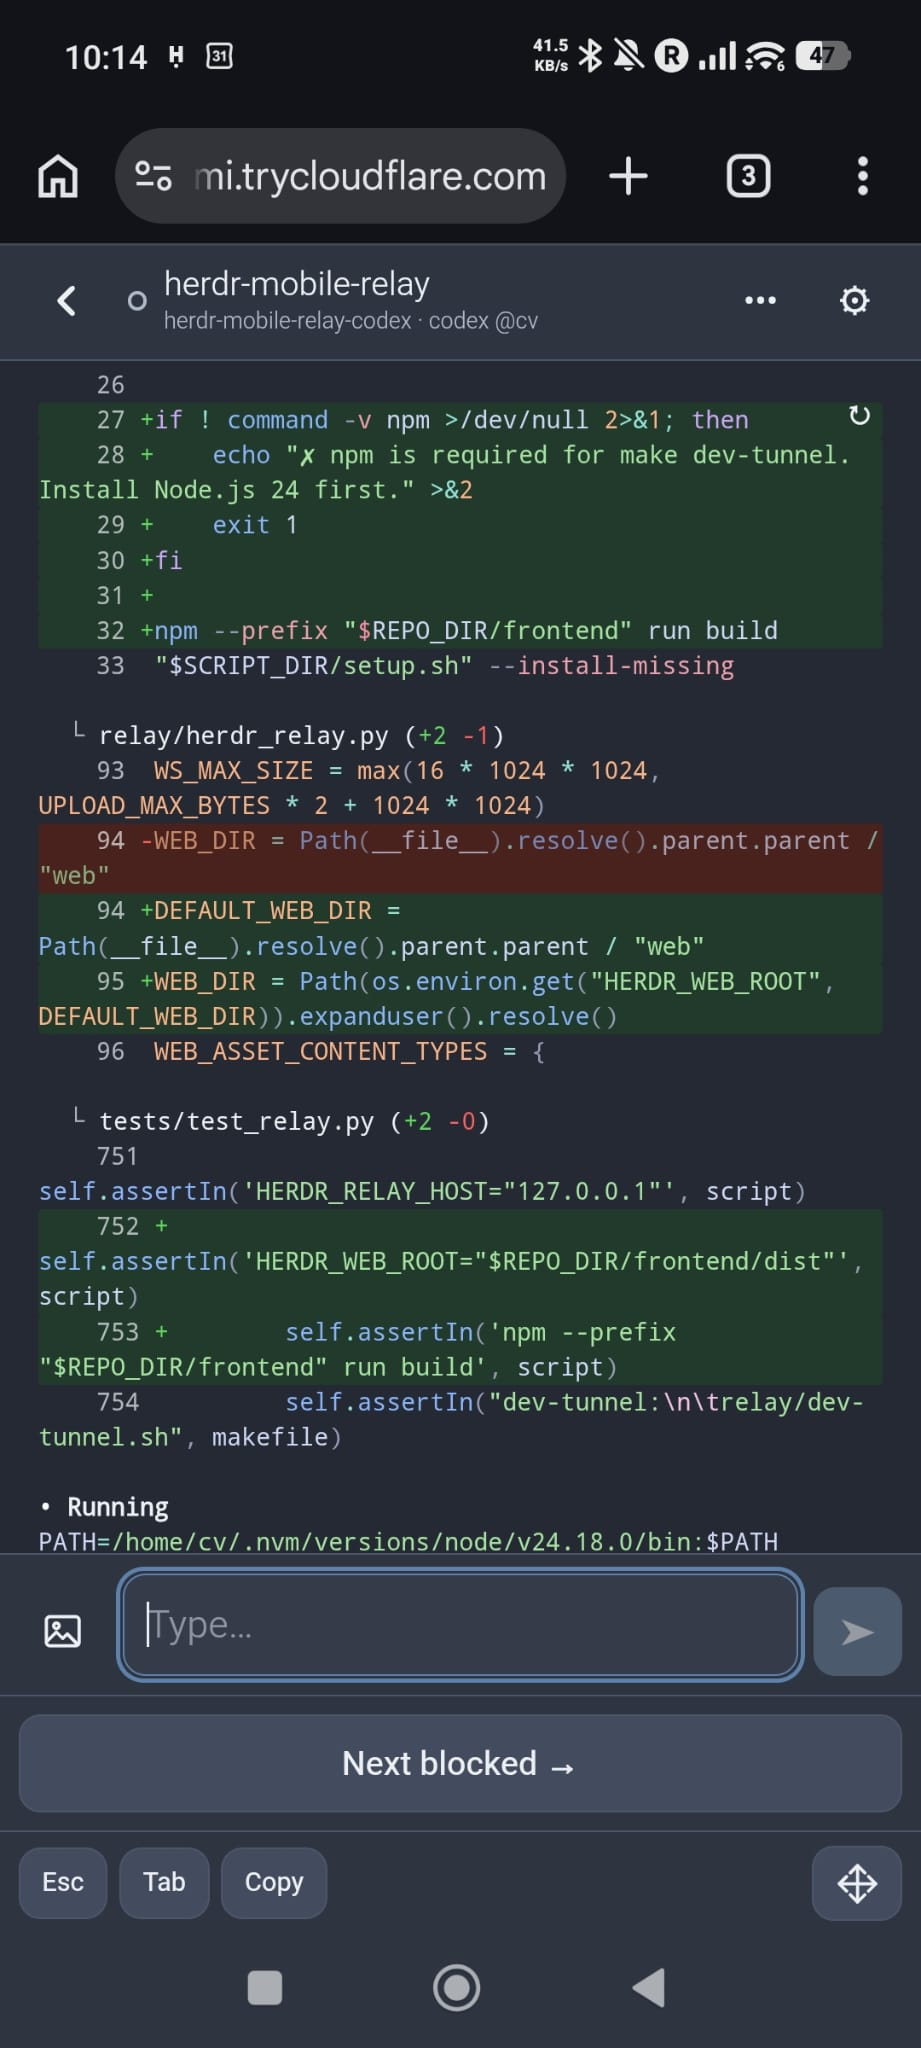
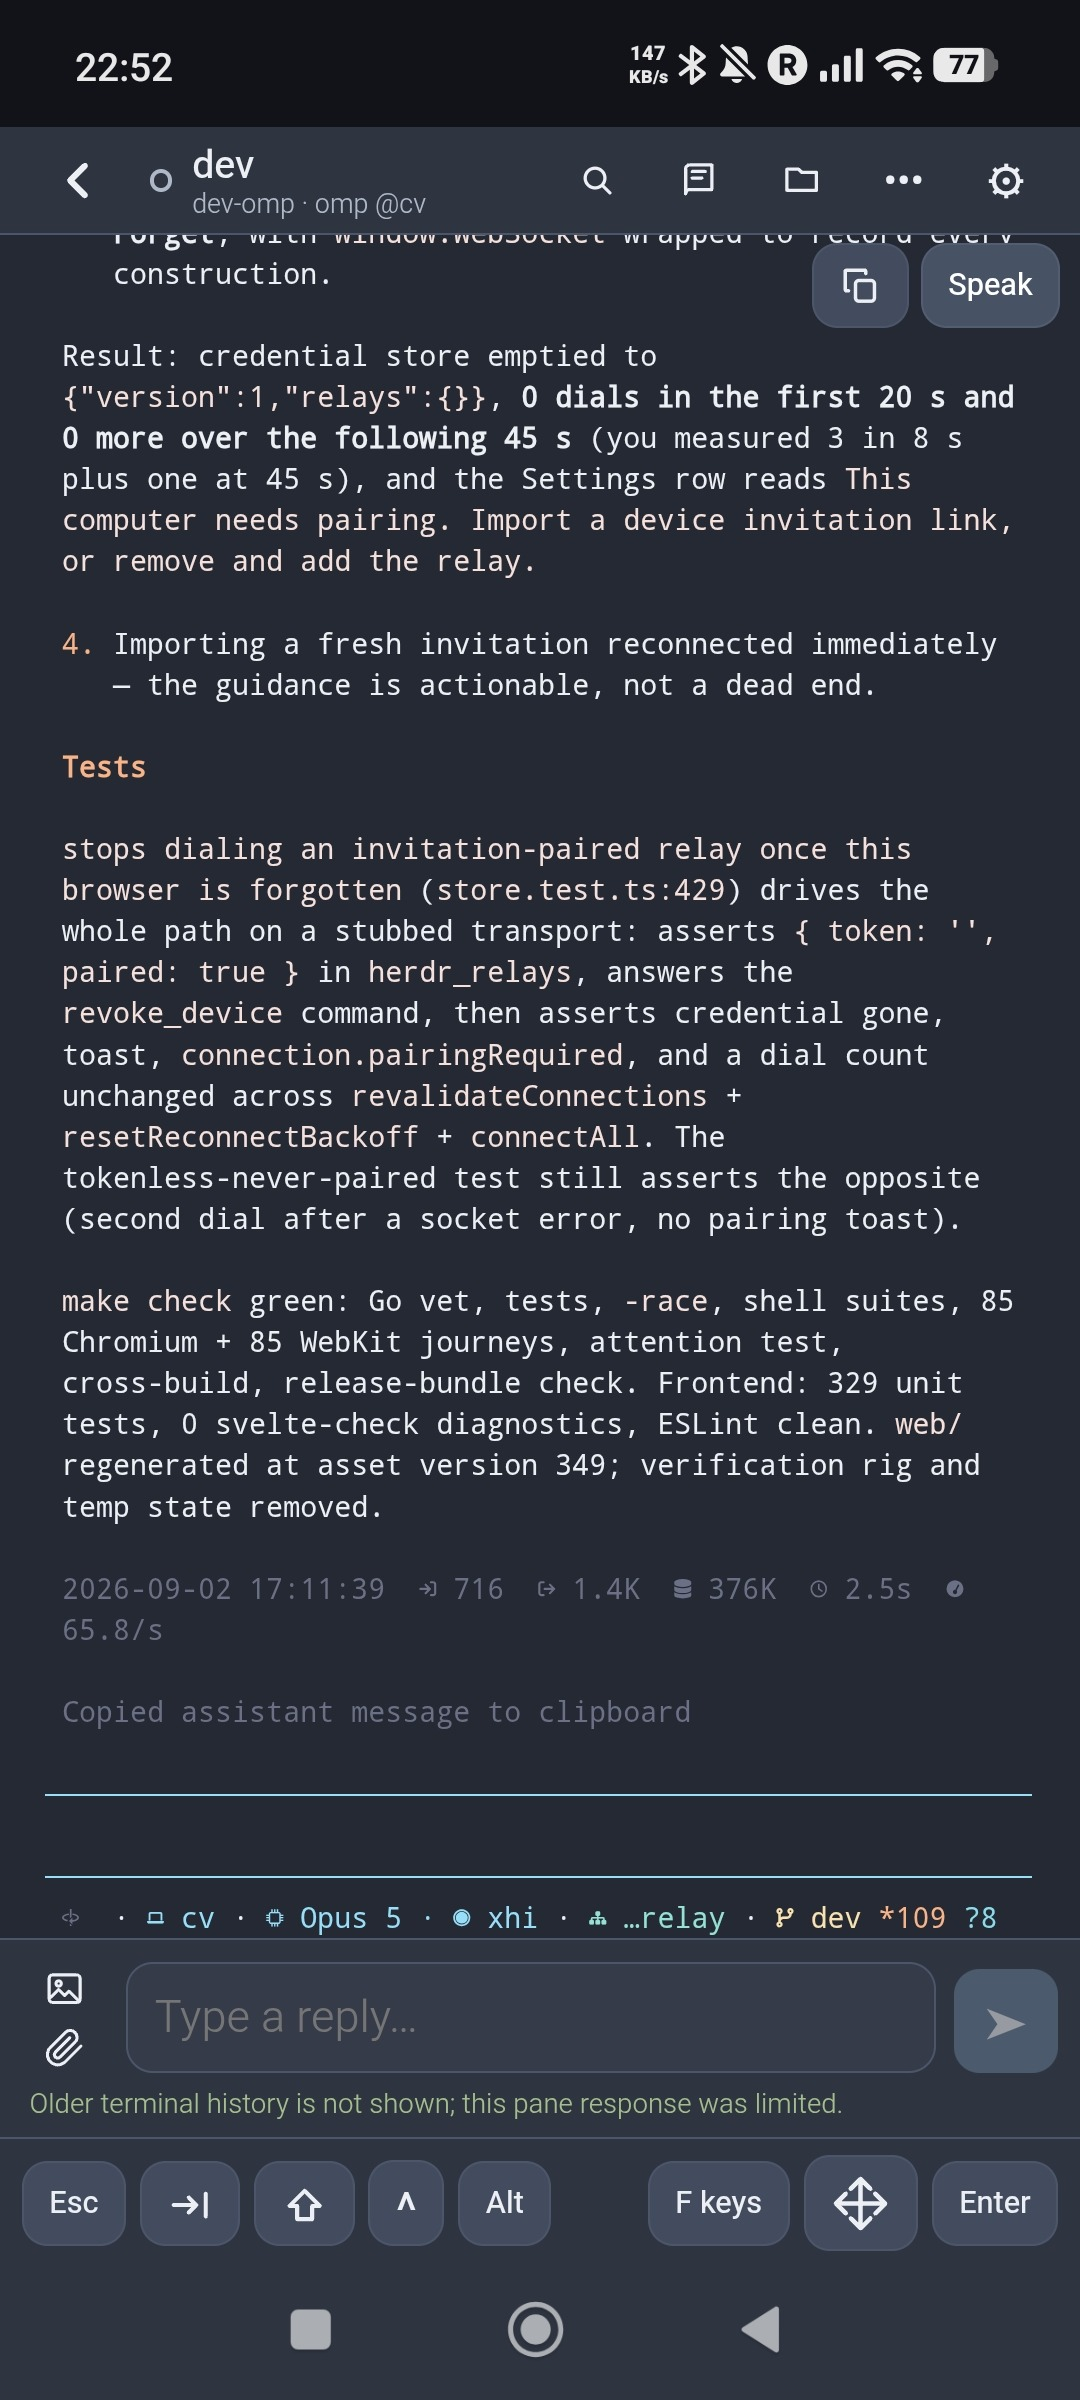
docs: prepare the 0.20.0 release
Lean README with the 0.20.0 headline features and new screenshots, the
agent directory guide moved to docs/agent-directories.md, and the changelog
versioned as 0.20.0.

Changed region(s): [[0.0, 0.0, 1.0, 0.9375], [0.9121, 0.5312, 0.9425, 0.5625]]

diff --git a/README.md b/README.md
@@ -6,10 +6,15 @@ Control [Herdr](https://herdr.dev) agents from your phone. Each Linux or macOS
 computer runs its own relay; the phone connects to them and merges every agent
 into one installable web app.
 
-**Current version:** [`0.19.1`](https://github.com/0cv/herdr-mobile-relay/releases/tag/v0.19.1) · [Changelog](CHANGELOG.md)
+**Current version:** [`0.20.0`](https://github.com/0cv/herdr-mobile-relay/releases/tag/v0.20.0) · [Changelog](CHANGELOG.md)
 
 > [!IMPORTANT]
 > Native Windows is not supported. WSL2 may work but is not tested.
+
+> [!WARNING]
+> 0.20.0 replaces the shared relay key with per-device credentials and a new
+> encrypted transport. It cannot be installed through the phone updater:
+> [upgrade the relay manually and pair every phone again](docs/updates.md#upgrading-from-v0191).
 
 ## Get started in two minutes
 
@@ -51,26 +56,27 @@ paths.
 
 ## What you get
 
-| | |
-| --- | --- |
-| <img src="images/home.jpeg" alt="Mobile list of Herdr agents" width="392"> | <img src="images/agent_plan.jpeg" alt="Structured plan question navigation" width="392"> |
+| Agents | Terminal | Pairing |
+| --- | --- | --- |
+| <img src="images/home.jpeg" alt="Agents grouped by workspace and worktree across computers" width="260"> | <img src="images/terminal.jpeg" alt="Mobile terminal with Copy, Speak, attachments, and terminal keys" width="260"> | <img src="images/devices-qr.jpeg" alt="One-use device invitation shown as a QR code" width="260"> |
 
 - Monitor and control agents across several computers, grouped by status and
-  authoritative Herdr workspace, with agents that need input pinned on top.
-- Create, rename, reorder, and close workspaces; create, open, and safely remove
-  Git worktrees without stealing desktop focus.
-- Start, rename, clear, and stop agents; send prompts, terminal keys, slash
-  commands, screenshots, photos, text, Markdown, PDF, JSON, CSV, and common
-  office documents in cancellable batches.
-- Answer content-bound approvals and structured plan questions from Codex,
-  Claude Code, Qoder, OpenCode, Oh My Pi, and Pi.
-- Read and reply from searchable native conversation history, inspect validated
-  Oh My Pi plans, and inspect workspace files, images, and Git diffs read-only.
-- Pair named controller or reader devices, and configure durable notification
-  categories, settle delay, cooldown, snooze, and tests per relay and device.
-- Optionally keep the screen awake in a visible terminal, or have the relay read
-  responses aloud in English, French, German, Spanish, or Chinese, with the
-  English voice installed by setup and the rest downloaded from Settings.
+  Herdr workspace, with agents that need input pinned on top.
+- Answer approvals and structured plan questions from Codex, Claude Code,
+  Qoder, OpenCode, Oh My Pi, and Pi.
+- Send prompts, terminal keys, and slash commands; attach screenshots, photos,
+  and documents in cancellable batches.
+- Read and search each agent's native conversation, including OpenCode and Oh
+  My OpenCode plans; inspect workspace files, images, and Git diffs read-only.
+- Manage workspaces and Git worktrees; start, rename, clear, and stop agents.
+- Have the relay read responses aloud, even with the screen off.
+- Pair every phone as its own named device — controller or read-only reader —
+  each with its own notification rules, and revoke any of them.
+
+**New in 0.20.0:** named controller and reader devices with QR pairing,
+relay-synthesized speech in five languages, per-device notification categories
+with settle delay, cooldown, and snooze, multi-file attachments, and OpenCode /
+Oh My OpenCode conversations.
 
 **[Full feature tour →](docs/mobile-app.md)**
 
@@ -101,105 +107,24 @@ fallback; Cloudflare tunnel traffic stays on Cloudflare.
 
 ## Agents with a non-default config directory
 
-The relay runs as a background launchd/systemd user service, so it never
-inherits the shell environment a Herdr pane runs in. If a pane sets
-`CLAUDE_CONFIG_DIR`, `PI_CODING_AGENT_DIR`, or similar to use a non-default
-profile — one per herdr setup — the pane keeps whatever title herdr itself
-reports, but the relay-resolved session name and the transcript both come up
-empty, and the conversation view shows "No conversation log is available for
-this session." For Pi and Oh My Pi the same lists below also decide where that
-profile's slash commands and skills are discovered, so a profile whose commands
-are missing from the palette has the same root cause. Claude Code and Qoder
-resolve their personal commands and skills from `~/.claude` and `~/.qoder`
-directly, so those lists do not move command discovery for them.
-Native palette discovery follows the verified loader behavior of specific agent
-versions on a best-effort basis; newer agent releases can change edge-case
-discovery semantics before the relay catches up.
-
-Standalone Kimi Code palettes follow its native roots: project
-`.kimi-code/skills` and `.agents/skills`, user
-`$KIMI_CODE_HOME/skills` (default `~/.kimi-code/skills`) and
-`~/.agents/skills`, then `extra_skill_dirs` from
-`$KIMI_CODE_HOME/config.toml`. `KIMI_CODE_HOME` relocates only Kimi's own
-configuration and skills; the shared `~/.agents/skills` root stays under the
-user home.
-
-Pi and Oh My Pi need no configuration for their named profiles as long as the
-config root stays at its default, `~/.pi` or `~/.omp`: both keep a profile's
-sessions at `<config root>/profiles/<name>/agent`, so the relay discovers
-`~/.omp/profiles/*/agent` and `~/.pi/profiles/*/agent` during lookups rather
-than only at startup. A profile created while the relay is running is picked up
-after the discovery cache refreshes, with no restart. Transcript-location hits
-and session titles can remain cached for up to 60 seconds; location misses are
-retried after 5 seconds.
-Transcript content is read fresh from the selected location. Auto-discovery
-only ever expands the home config
-root, never a configured one — so a relocated Pi or Oh My Pi config root does
-not get its profiles discovered, even after its `<root>/agent` is added to the
-matching `HERDR_*_CONFIG_DIRS` list. Each profile under a relocated root must
-then be listed individually, as `<root>/profiles/<name>/agent`. For example,
-with the whole root moved to `/data/omp` and one profile named `work`:
-
-```bash
-HERDR_OMP_CONFIG_DIRS=/data/omp/agent:/data/omp/profiles/work/agent
-```
-
-Every other case needs to be named explicitly:
-
-| Variable | Home default it adds to | Agent's own directory variable |
-| --- | --- | --- |
-| `HERDR_CLAUDE_CONFIG_DIRS` | `~/.claude` | `CLAUDE_CONFIG_DIR` |
-| `HERDR_QODER_CONFIG_DIRS` | `~/.qoder` | none |
-| `HERDR_CODEX_CONFIG_DIRS` | `~/.codex` | `CODEX_HOME` |
-| `HERDR_PI_CONFIG_DIRS` | `~/.pi/agent` | `PI_CODING_AGENT_DIR` |
-| `HERDR_OMP_CONFIG_DIRS` | `~/.omp/agent` | `PI_CODING_AGENT_DIR` (Oh My Pi is a Pi fork and shares Pi's default) |
-
-Three things to get right:
-
-- The home default is always searched. Setting a list *adds* profiles; it
-  never replaces the default.
-- Entries are directories, not pre-joined `projects`/`sessions` paths — the
-  relay appends the right leaf itself. Use the same value you'd put in that
-  row's own "Agent's own directory variable": a full config directory for
-  Claude, Qoder, and Codex, but already the *agent* directory for Pi and Oh My
-  Pi, since that is what `PI_CODING_AGENT_DIR` takes.
-- What you configure is searched before what the relay discovered, and the home
-  default is searched last.
-
-Separate multiple entries with a colon — the platform path-list separator, as
-in `PATH` — so a directory whose name contains a literal colon can't be
-listed this way.
-
-Set these in the file named by `HERDR_RELAY_ENV`:
-`$HERDR_PLUGIN_CONFIG_DIR/relay.env` for an installation, `relay/.env` for a
-checkout. For example, with two herdr setups using `~/agents/claude-work` and
-`~/agents/claude-personal` as their Claude profiles, add:
-
-```bash
-HERDR_CLAUDE_CONFIG_DIRS="~/agents/claude-work:~/agents/claude-personal"
-```
-
-The service wrapper sources that file with `set -a`, so every key in it
-becomes part of the relay's environment — quote a path that contains spaces,
-since the file is parsed by bash. A leading `~` or `~/` in an entry is
-expanded against your home directory by the relay itself, not by bash, so it
-survives quoting; whatever remains must still be an absolute path, or the
-entry is silently dropped. After editing, restart the relay: reopen the setup
-menu with the `herdr plugin pane open` command under **Get started in two
-minutes** above, then choose your connection option again. An
-already-installed background service is restarted rather than started twice.
+The relay runs as a background service and does not see a pane's
+`CLAUDE_CONFIG_DIR`, `PI_CODING_AGENT_DIR`, or similar. If an agent's
+conversation shows as unavailable or a profile's slash commands are missing,
+point the relay at that profile with `HERDR_*_CONFIG_DIRS`:
+**[Agent directories →](docs/agent-directories.md)**
 
 ## Documentation
 
 | Page | What is in it |
 | --- | --- |
 | [QUICKSTART.md](QUICKSTART.md) | The fast path, start to paired phone |
-| [docs/mobile-app.md](docs/mobile-app.md) | Every feature: agent list, workspace inspection, mobile terminal |
+| [docs/mobile-app.md](docs/mobile-app.md) | Every feature: agent list, terminal, devices, speech, notifications |
 | [docs/transports.md](docs/transports.md) | Cloudflare, community gateway, own gateway, direct WebRTC |
 | [docs/cloudflare-tunnel.md](docs/cloudflare-tunnel.md) | The stable tunnel wizard, DNS, and teardown |
 | [docs/gateway-self-hosting.md](docs/gateway-self-hosting.md) | Deploying and operating a gateway |
-| [docs/updates.md](docs/updates.md) | Verified releases, phone-driven upgrades, Herdr compatibility |
-| [docs/security.md](docs/security.md) | What is encrypted, what an intermediary sees, the audit log |
+| [docs/agent-directories.md](docs/agent-directories.md) | Agents that use a non-default config or profile directory |
+| [docs/updates.md](docs/updates.md) | Verified releases, phone-driven upgrades, upgrading from 0.19.1 |
+| [docs/security.md](docs/security.md) | What is encrypted, device pairing, what an intermediary sees |
 | [docs/development.md](docs/development.md) | Building, testing, and contributing |
 
 ## Security in one paragraph
@@ -210,8 +135,8 @@ tunnel or a gateway — observes connection metadata only, never plaintext; on t
 direct path no application data reaches it at all, though a gateway still
 answers address discovery. Paired credentials distinguish controller and
 reader devices, mutations default to controller-only, attachment references
-are bound to an exact terminal generation, and the app can require device
-verification before it reconnects.
+stay bound to the terminal and agent session that created them, and the app can
+require device verification before it reconnects.
 [Details →](docs/security.md)
 
 ## License

diff --git a/docs/agent-directories.md b/docs/agent-directories.md
@@ -1,0 +1,96 @@
+# Agents with a non-default config directory
+
+How the relay finds an agent's sessions, transcripts, slash commands, and
+skills when that agent does not use its default configuration root. Read this
+if the conversation view says "No conversation log is available for this
+session" or a profile's commands are missing from the palette.
+
+The relay runs as a background launchd/systemd user service, so it never
+inherits the shell environment a Herdr pane runs in. If a pane sets
+`CLAUDE_CONFIG_DIR`, `PI_CODING_AGENT_DIR`, or similar to use a non-default
+profile — one per herdr setup — the pane keeps whatever title herdr itself
+reports, but the relay-resolved session name and the transcript both come up
+empty, and the conversation view shows "No conversation log is available for
+this session." For Pi and Oh My Pi the same lists below also decide where that
+profile's slash commands and skills are discovered, so a profile whose commands
+are missing from the palette has the same root cause. Claude Code and Qoder
+resolve their personal commands and skills from `~/.claude` and `~/.qoder`
+directly, so those lists do not move command discovery for them.
+Native palette discovery follows the verified loader behavior of specific agent
+versions on a best-effort basis; newer agent releases can change edge-case
+discovery semantics before the relay catches up.
+
+Standalone Kimi Code palettes follow its native roots: project
+`.kimi-code/skills` and `.agents/skills`, user
+`$KIMI_CODE_HOME/skills` (default `~/.kimi-code/skills`) and
+`~/.agents/skills`, then `extra_skill_dirs` from
+`$KIMI_CODE_HOME/config.toml`. `KIMI_CODE_HOME` relocates only Kimi's own
+configuration and skills; the shared `~/.agents/skills` root stays under the
+user home.
+
+Pi and Oh My Pi need no configuration for their named profiles as long as the
+config root stays at its default, `~/.pi` or `~/.omp`: both keep a profile's
+sessions at `<config root>/profiles/<name>/agent`, so the relay discovers
+`~/.omp/profiles/*/agent` and `~/.pi/profiles/*/agent` during lookups rather
+than only at startup. A profile created while the relay is running is picked up
+after the discovery cache refreshes, with no restart. Transcript-location hits
+and session titles can remain cached for up to 60 seconds; location misses are
+retried after 5 seconds.
+Transcript content is read fresh from the selected location. Auto-discovery
+only ever expands the home config
+root, never a configured one — so a relocated Pi or Oh My Pi config root does
+not get its profiles discovered, even after its `<root>/agent` is added to the
+matching `HERDR_*_CONFIG_DIRS` list. Each profile under a relocated root must
+then be listed individually, as `<root>/profiles/<name>/agent`. For example,
+with the whole root moved to `/data/omp` and one profile named `work`:
+
+```bash
+HERDR_OMP_CONFIG_DIRS=/data/omp/agent:/data/omp/profiles/work/agent
+```
+
+Every other case needs to be named explicitly:
+
+| Variable | Home default it adds to | Agent's own directory variable |
+| --- | --- | --- |
+| `HERDR_CLAUDE_CONFIG_DIRS` | `~/.claude` | `CLAUDE_CONFIG_DIR` |
+| `HERDR_QODER_CONFIG_DIRS` | `~/.qoder` | none |
+| `HERDR_CODEX_CONFIG_DIRS` | `~/.codex` | `CODEX_HOME` |
+| `HERDR_PI_CONFIG_DIRS` | `~/.pi/agent` | `PI_CODING_AGENT_DIR` |
+| `HERDR_OMP_CONFIG_DIRS` | `~/.omp/agent` | `PI_CODING_AGENT_DIR` (Oh My Pi is a Pi fork and shares Pi's default) |
+| `HERDR_OPENCODE_DATA_DIRS` | `${XDG_DATA_HOME:-~/.local/share}/opencode` | none |
+| `HERDR_OMO_CONFIG_DIRS` | `~/.senpi/agent` plus supported `~/.omo` layouts | `OMO_CODING_AGENT_DIR`, `SENPI_CODING_AGENT_DIR`, `PI_CODING_AGENT_DIR` |
+
+Three things to get right:
+
+- The home default is always searched. Setting a list *adds* profiles; it
+  never replaces the default.
+- Entries are directories, not pre-joined `projects`/`sessions` paths — the
+  relay appends the right leaf itself. Use the same value you'd put in that
+  row's own "Agent's own directory variable": a full config directory for
+  Claude, Qoder, and Codex, but already the *agent* directory for Pi and Oh My
+  Pi, since that is what `PI_CODING_AGENT_DIR` takes.
+- What you configure is searched before what the relay discovered, and the home
+  default is searched last.
+
+Separate multiple entries with a colon — the platform path-list separator, as
+in `PATH` — so a directory whose name contains a literal colon can't be
+listed this way.
+
+Set these in the file named by `HERDR_RELAY_ENV`:
+`$HERDR_PLUGIN_CONFIG_DIR/relay.env` for an installation, `relay/.env` for a
+checkout. For example, with two herdr setups using `~/agents/claude-work` and
+`~/agents/claude-personal` as their Claude profiles, add:
+
+```bash
+HERDR_CLAUDE_CONFIG_DIRS="~/agents/claude-work:~/agents/claude-personal"
+```
+
+The service wrapper sources that file with `set -a`, so every key in it
+becomes part of the relay's environment — quote a path that contains spaces,
+since the file is parsed by bash. A leading `~` or `~/` in an entry is
+expanded against your home directory by the relay itself, not by bash, so it
+survives quoting; whatever remains must still be an absolute path, or the
+entry is silently dropped. After editing, restart the relay: reopen the setup
+menu with the `herdr plugin pane open` command in [README.md](../README.md),
+then choose your connection option again. An already-installed background
+service is restarted rather than started twice.

diff --git a/CHANGELOG.md b/CHANGELOG.md
@@ -3,6 +3,44 @@
 Notable user-facing changes to Herdr Mobile Relay are documented here. The
 project follows [Semantic Versioning](https://semver.org/).
 
+## [0.20.0] - 2026-09-02
+
+### Added
+
+- Upload screenshots, photos, text, Markdown, PDF, JSON, CSV, and common office
+  documents in cancellable multi-file batches.
+- Read and search native OpenCode and Oh My OpenCode conversation history, with
+  validated Oh My OpenCode plan projection.
+- Read agent responses aloud on the relay, manage cached Piper voices from the
+  phone on supported hosts, and fall back to installed system speech engines.
+- Pair named controller and read-only devices with independent revocation and
+  per-device notification categories, settle delay, cooldown, snooze, and
+  delivery tests.
+- Show relay startup failures in a persistent crash banner with recovery
+  guidance instead of leaving the browser without a diagnosis.
+- Generate scannable QR codes for one-use device invitation links.
+- Remember that a computer was paired over the encrypted handshake, so a phone
+  whose credential is revoked, reset, or never stored asks for a new invitation
+  link instead of retrying an unauthenticated connection it cannot complete.
+
+### Changed
+
+- Replace the shared relay key with named, revocable controller and reader
+  device credentials over E2EE v2. Upgrading from v0.19.1 requires a manual
+  relay upgrade and re-pairing every phone; the README and upgrade guide
+  document this transport boundary.
+
+### Fixed
+
+- Upload multi-file batches with one relay-wide chunk sequence, reject chunks
+  after the final declared file without crashing, and parse OpenCode's real
+  `sqlite3 -json` text representation.
+- Keep valid phone credentials when authentication fails because of a transient
+  relay store or rate-limit error, and prevent unauthenticated guesses from
+  burning the full-entropy bootstrap invitation.
+- Keep every readable attachment reference when one persisted record is
+  unusable, instead of quarantining the whole index and dropping the rest.
+
 ## [0.19.1] - 2026-08-29
 
 ### Fixed
@@ -1251,6 +1289,8 @@ project follows [Semantic Versioning](https://semver.org/).
   distorting their cells.
 - Release pane-size leases when their WebSocket owner disappears, preventing a
   laptop terminal from remaining narrowed.
+
+[0.20.0]: https://github.com/0cv/herdr-mobile-relay/compare/v0.19.1...v0.20.0
 
 [0.19.1]: https://github.com/0cv/herdr-mobile-relay/compare/v0.19.0...v0.19.1
 
